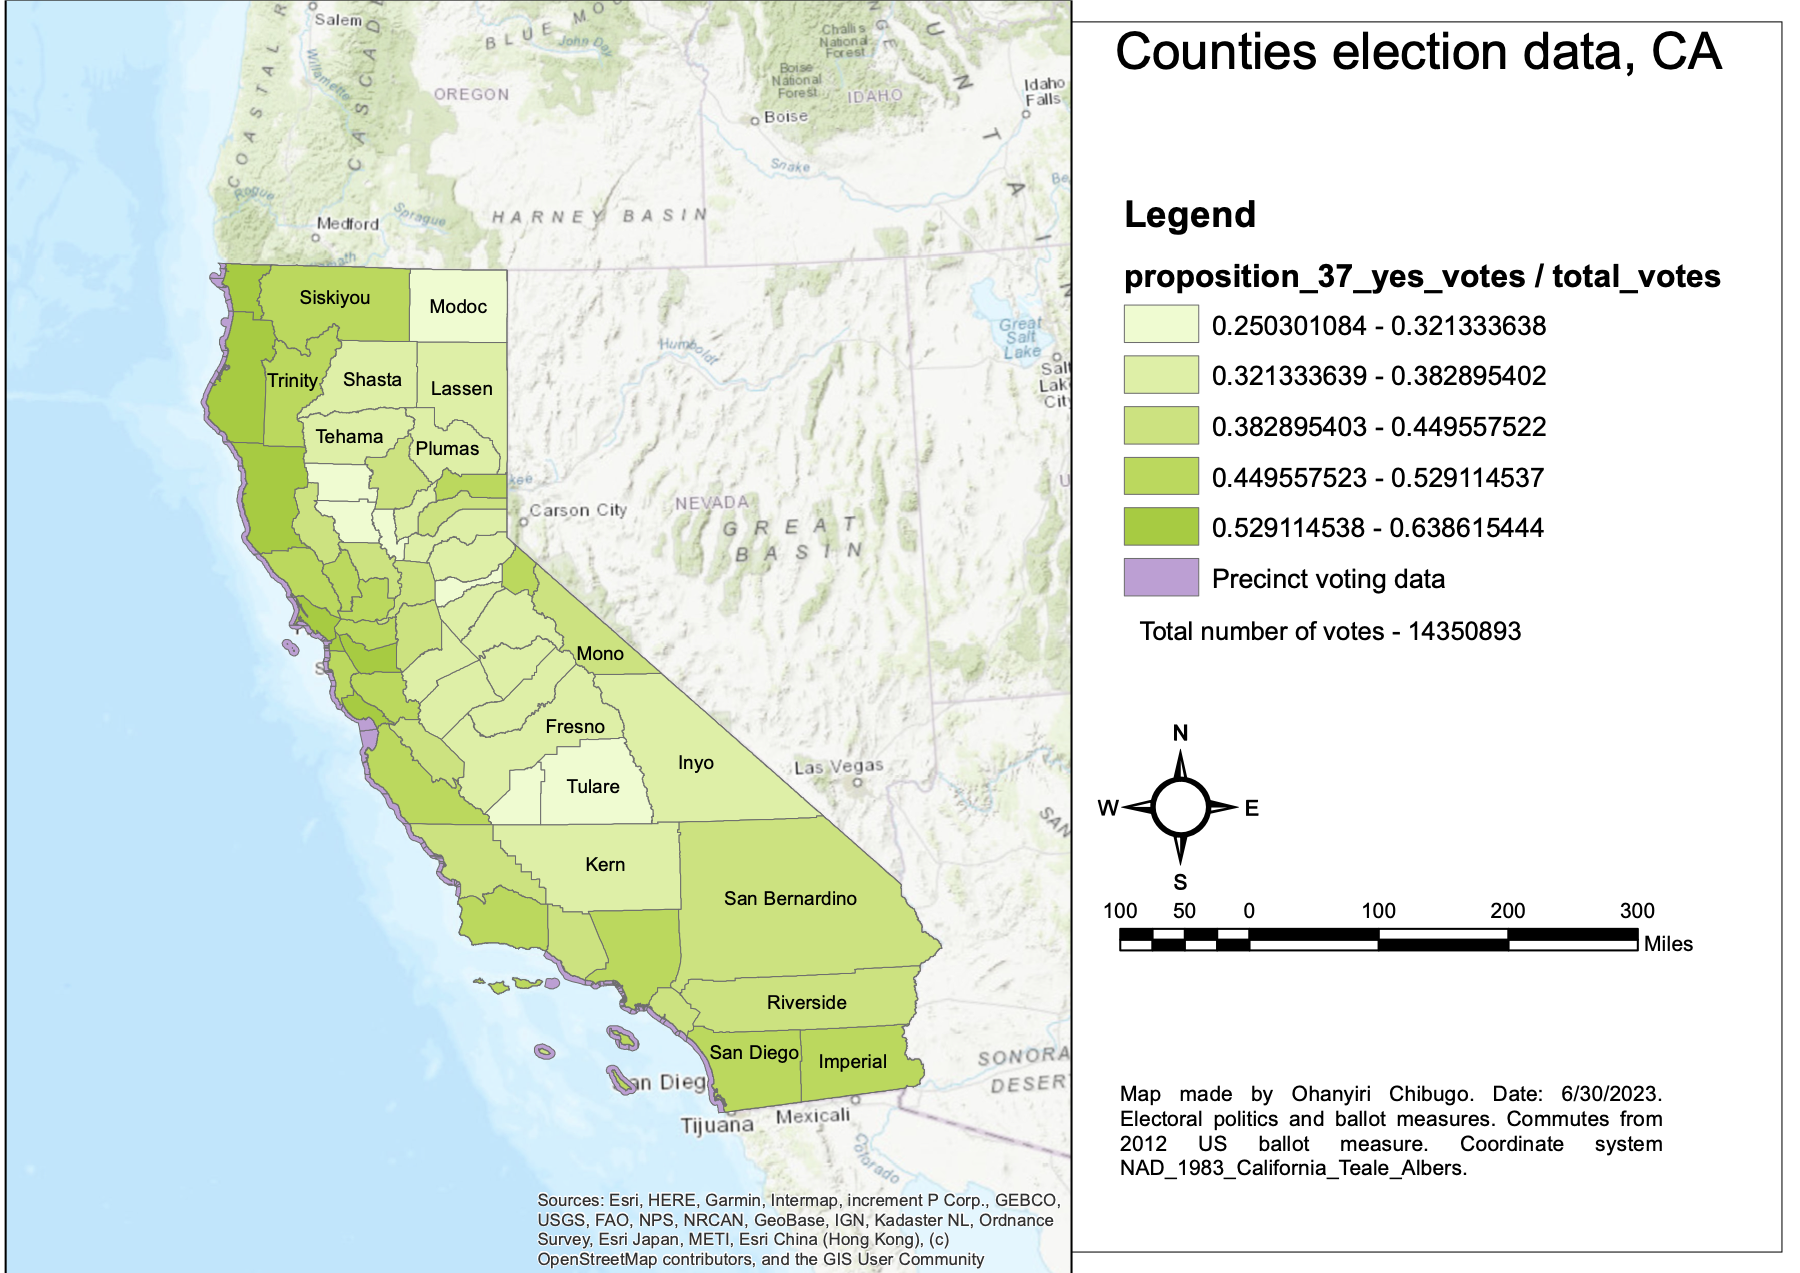
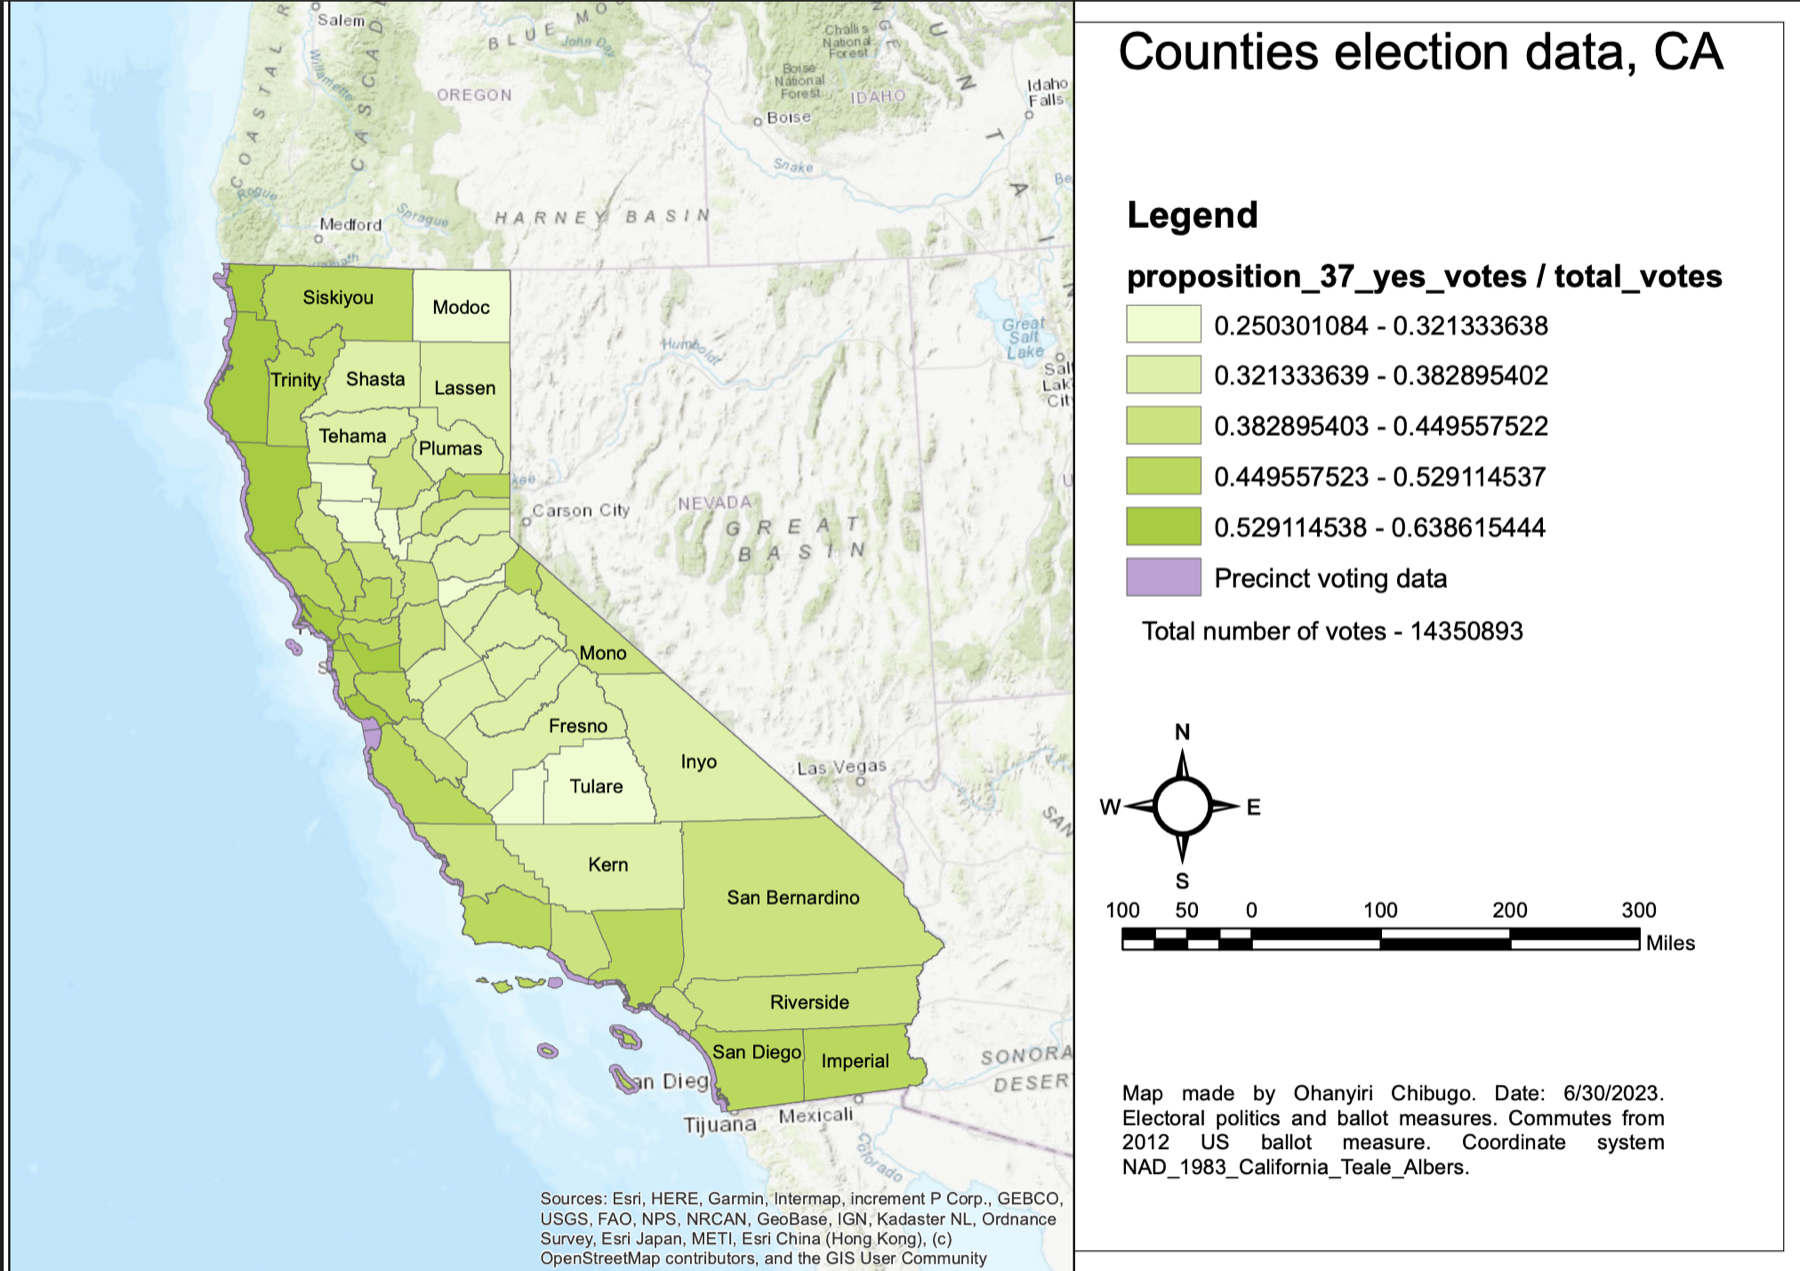
Portfolio: S/N column, Valmeyer web-map link, clearer Prop 37 map image

diff --git a/README.md b/README.md
@@ -2,15 +2,15 @@
 
 Chibugo Ohanyiri's geospatial, remote-sensing and Earth-observation work, from field survey and GIS analysis to satellite remote sensing. Code projects have their own repositories (linked here as sub-repositories under `published/`); earlier GIS projects are written up as case studies under `case-studies/`.
 
-| Project | What it does | Links |
-|---|---|---|
-| **Lekki flood radar evidence (STAC Environmental Processor)**<br>Personal project · 2026 | Turns Sentinel-1 radar from the 30 June 2026 Lagos flood into reproducible evidence: aligned imagery with receipts, control days, a practice/test split, a STAC catalogue and a clickable map. | [Repository](https://github.com/ChibugoOhanyiri/stac-environmental-processor) · [Live map](https://chibugoohanyiri.github.io/stac-environmental-processor/) · [Report](https://github.com/ChibugoOhanyiri/stac-environmental-processor/blob/main/REPORT.md) |
-| **3D flood-inundation visualisation, Rivers State, Nigeria**<br>Individual project · Nov 2023 | 3D terrain model showing exposure to hypothetical water-level rise, told as a StoryMap. 🏆 Second runner-up, GIS Day Nigeria StoryMap Competition. | [Case study](case-studies/rivers-state-3d-flood-inundation/) |
-| **Topographic mapping of the Digital Library, UNIZIK**<br>Group project · 2023 | DGPS/GNSS field survey, SRTM and Kriging in ArcGIS for a topographic map with contours, spot heights, buildings and roads. | [Case study](case-studies/unizik-digital-library-topographic-map/) |
-| **Ozone concentrations, California, USA**<br>Personal project · 2023 | Interpolated monitoring-station ozone, summarised by census tract and elevation zone, and related to household income and elevation. | [Case study](case-studies/california-ozone-spatial-analysis/) |
-| **Parcel and terrain analysis, Valmeyer, Illinois, USA**<br>Personal project · 2024 | Parcel-level elevation and slope of a town relocated after flooding, with an interactive web map of parcels, roads and terrain. | [Case study](case-studies/valmeyer-parcel-terrain-analysis/) |
-| **Land surface temperature, Osaka, Japan**<br>Personal project · 2024 | Landsat 8 thermal imagery processed with the Single-Channel Algorithm to map urban surface heat against development and population. | [Case study](case-studies/osaka-land-surface-temperature/) |
-| **Proposition 37 voting patterns, California, USA**<br>Personal project · 2023 | Precinct results aggregated to county "Yes" shares and mapped with Jenks Natural Breaks. | [Case study](case-studies/california-prop-37-voting-patterns/) |
+| S/N | Project | What it does | Links |
+|---|---|---|---|
+| 1 | **Lekki flood radar evidence (STAC Environmental Processor)**<br>Personal project · 2026 | Turns Sentinel-1 radar from the 30 June 2026 Lagos flood into reproducible evidence: aligned imagery with receipts, control days, a practice/test split, a STAC catalogue and a clickable map. | [Repository](https://github.com/ChibugoOhanyiri/stac-environmental-processor) · [Live map](https://chibugoohanyiri.github.io/stac-environmental-processor/) · [Report](https://github.com/ChibugoOhanyiri/stac-environmental-processor/blob/main/REPORT.md) |
+| 2 | **3D flood-inundation visualisation, Rivers State, Nigeria**<br>Individual project · Nov 2023 | 3D terrain model showing exposure to hypothetical water-level rise, told as a StoryMap. 🏆 Second runner-up, GIS Day Nigeria StoryMap Competition. | [Case study](case-studies/rivers-state-3d-flood-inundation/) |
+| 3 | **Topographic mapping of the Digital Library, UNIZIK**<br>Group project · 2023 | DGPS/GNSS field survey, SRTM and Kriging in ArcGIS for a topographic map with contours, spot heights, buildings and roads. | [Case study](case-studies/unizik-digital-library-topographic-map/) |
+| 4 | **Ozone concentrations, California, USA**<br>Personal project · 2023 | Interpolated monitoring-station ozone, summarised by census tract and elevation zone, and related to household income and elevation. | [Case study](case-studies/california-ozone-spatial-analysis/) |
+| 5 | **Parcel and terrain analysis, Valmeyer, Illinois, USA**<br>Personal project · 2024 | Parcel-level elevation and slope of a town relocated after flooding, with an interactive web map of parcels, roads and terrain. | [Case study](case-studies/valmeyer-parcel-terrain-analysis/) · [Web map](https://www.arcgis.com/apps/mapviewer/index.html?webmap=88662aad36624a63875dd051896cfb3f&extent=-90.3418,38.2876,-90.2526,38.3233) |
+| 6 | **Land surface temperature, Osaka, Japan**<br>Personal project · 2024 | Landsat 8 thermal imagery processed with the Single-Channel Algorithm to map urban surface heat against development and population. | [Case study](case-studies/osaka-land-surface-temperature/) |
+| 7 | **Proposition 37 voting patterns, California, USA**<br>Personal project · 2023 | Precinct results aggregated to county "Yes" shares and mapped with Jenks Natural Breaks. | [Case study](case-studies/california-prop-37-voting-patterns/) |
 
 
 ## Working with this repository

diff --git a/case-studies/valmeyer-parcel-terrain-analysis/README.md b/case-studies/valmeyer-parcel-terrain-analysis/README.md
@@ -2,6 +2,8 @@
 
 **Personal project · 2024**
 
+**[Open the interactive web map (ArcGIS)](https://www.arcgis.com/apps/mapviewer/index.html?webmap=88662aad36624a63875dd051896cfb3f&extent=-90.3418,38.2876,-90.2526,38.3233)**
+
 ## The question
 Valmeyer is a town that moved to higher ground after flooding. How do its **original and relocated sites** compare in elevation and slope, and what does that mean for access in an emergency?
 
